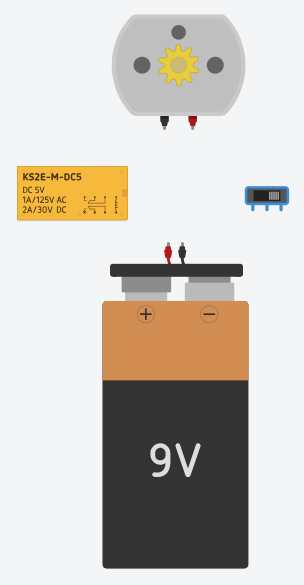
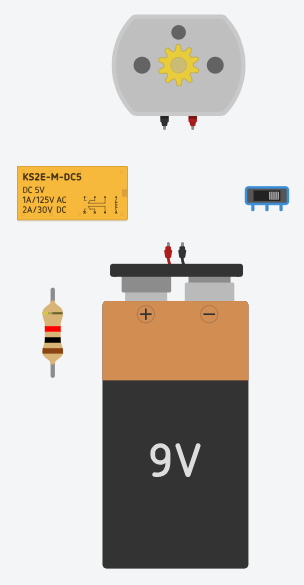
aula01

Changed region(s): [[0.1184, 0.4923, 0.2072, 0.6462]]

diff --git a/ds/turmas/2DES_A/4º Semestre/01-iot/aula01/README.md b/ds/turmas/2DES_A/4º Semestre/01-iot/aula01/README.md
@@ -134,7 +134,7 @@ Ligue vários leds em série, utilizando uma bateria de 9.0 Volts e um interrupt
 ### Desafio
 |Imagem|Descrição|
 |-|-|
-|![Desafio](./desafio.png)|Monte o circuito ao lado, utilizando uma bateria de 9.0 Volts, um interruptor, um motor e um Rele DPDT. O motor precisa girar para ambos os sentidos controlado pelo interruptor.|
+|![Desafio](./desafio.png)|Monte o circuito ao lado, utilizando uma bateria de 9.0 Volts, um interruptor, um motor, um resistor de 1kΩ para que o motor gire proximo a 1000 RPM e um Rele DPDT.<br>**Desafio:** O motor precisa girar para ambos os sentidos controlado pelo interruptor.|
 
 ### Entregas
 - Salve a imagem do seu projeto e envie para o professor respondendo as questões deste [formulário](https://forms.gle/baWDacV88yEY53Bw9).
